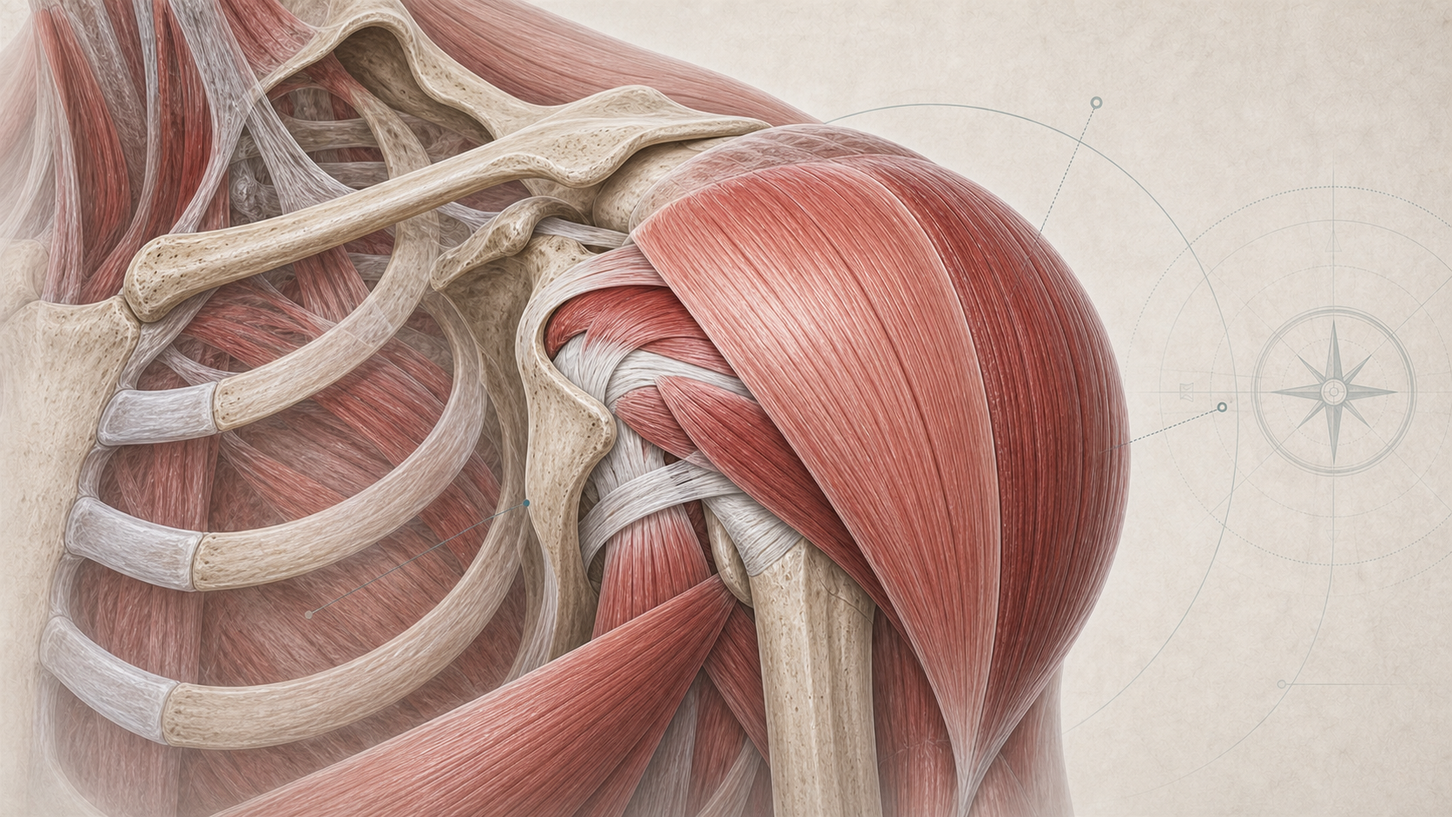
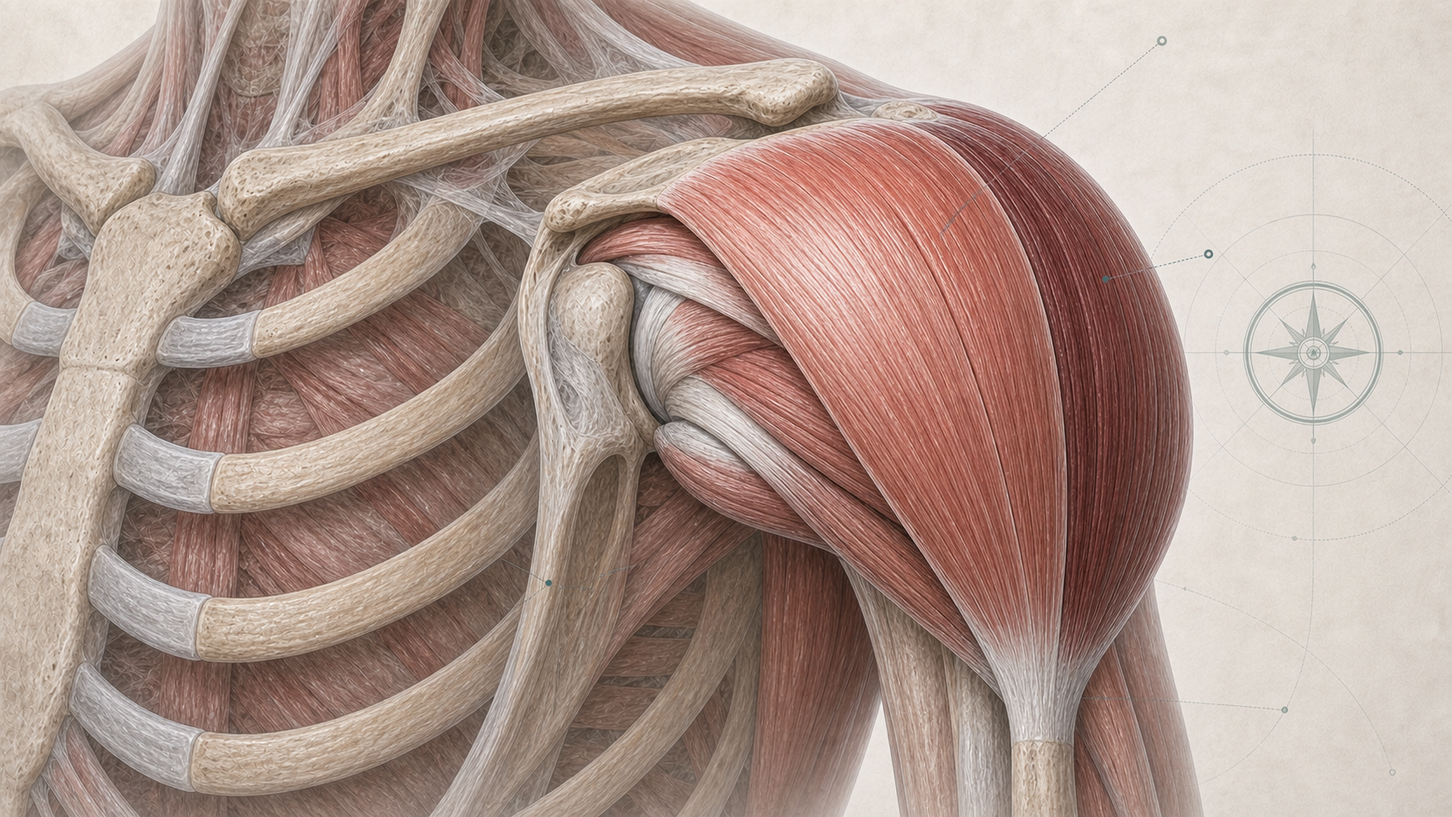
Biomechanik-Abbildungen anatomisch optimieren

diff --git a/assets/visuals/fitness-kompass-biomechanik-arme-griffkraft.prompt.md b/assets/visuals/fitness-kompass-biomechanik-arme-griffkraft.prompt.md
@@ -8,12 +8,12 @@ Generated size: 1672x941 px
 ## Prompt
 
 Use case: scientific-educational
-Asset type: inline anatomy visual for a German personal open-source Fitness Compass documentation chapter, target aspect ratio 16:9, intended final size 1600x900 px
-Primary request: Create an ultrarealistic but calm anatomical illustration showing the arm, forearm, and grip-related muscles on the human body, cropped from shoulder to hand with subtle elbow, radius/ulna, wrist, and hand bone context. Highlight biceps brachii, brachialis, triceps brachii, major forearm flexors and extensors, and the tendon relationships toward the wrist and fingers. Communicate elbow flexion, elbow extension, forearm rotation, and gripping through anatomy only, without text.
-Scene/backdrop: clean warm off-white anatomical atlas background with subtle paper texture and faint Fitness Compass motif, no environment, no gym scene.
-Subject: isolated close-up arm anatomy, one arm shown in a neutral slightly bent position with a gentle three-quarter rotation so anterior upper arm, posterior triceps plane, and forearm flexor/extensor masses are visible. Main muscles highlighted in refined muted red and rose tones, tendons near wrist/fingers visible but not clinical or gory, surrounding anatomy desaturated and secondary.
-Style/medium: premium medical-anatomy editorial illustration mixed with realistic 3D detail, ultrarealistic muscle texture, educational, precise, calm, high-end GitHub documentation visual, not flashy.
-Composition/framing: landscape 16:9, upper arm and elbow centered, forearm extending toward the right/lower side, hand partially visible in relaxed grip position, bones subtly semi-transparent, generous margins, no labels. Use subtle thin non-text callout lines or small anchor dots only if needed; no words.
+Asset type: replacement inline anatomy visual for docs/05-biomechanik-uebungsauswahl.md, section 5.9 arms/forearms/grip, target aspect ratio 16:9, intended final size 1600x900 px
+Primary request: Create an anatomically careful, ultrarealistic but calm arm and grip muscle illustration in the existing Fitness Compass visual style. The image is a clean two-view anatomical plate with no text: left side shows one coherent anterior upper-arm and forearm view with palm-up hand; right side shows one coherent posterior-lateral upper-arm and forearm view with dorsal hand. Do not blend the arms together. Do not make a random collage.
+Anatomy requirements: anterior view must clearly show biceps brachii as two heads converging toward radial tuberosity and bicipital aponeurosis, brachialis deep to the biceps from distal anterior humerus toward ulna, brachioradialis on lateral forearm, and forearm flexor-pronator mass from medial epicondyle with tendons continuing toward wrist and fingers. Posterior-lateral view must clearly show triceps long/lateral/medial heads converging to the olecranon via triceps tendon, and extensor-supinator forearm mass from lateral epicondyle with dorsal tendons toward wrist and fingers. Include semi-transparent humerus, radius, ulna, elbow joint, wrist bones, metacarpals, and finger bones. Keep hand relaxed, not clenched.
+Scene/backdrop: clean warm off-white anatomical atlas background with subtle paper texture and faint Fitness Compass compass-line motif, no gym scene.
+Subject/style: premium medical-anatomy editorial illustration mixed with realistic 3D detail, ultrarealistic muscle texture, educational, precise, calm, high-end GitHub documentation visual. Main muscles in muted red and rose tones, tendons ivory-white, bones slate-gray/ivory, secondary anatomy desaturated.
+Composition/framing: landscape 16:9, two balanced arm views with generous margins, shoulder-to-hand visible in both views, elbow and forearm tendon paths clear. Use subtle non-text anchor dots or fine callout lines only if needed. No labels.
 Lighting/mood: soft natural morning light, crisp but gentle shadows, clinical clarity without cold hospital mood.
-Color palette: warm white, deep teal/sage accents in the background only, slate-gray bones, muted red and rose muscle fibers, neutral steel/graphite fine lines, restrained small red accent allowed.
-Constraints: anatomically plausible upper arm, forearm, elbow, wrist, and hand relationships; emphasize biceps, brachialis, triceps, forearm flexors/extensors, and grip tendons; no readable text, no letters, no numbers, no labels, no pseudo-text, no watermark, no logo; no gore, blood, organs, exposed viscera, injury, surgery, needles, dramatic medical panic imagery, bodybuilder posing, aggressive bodybuilding aesthetic, product placement, or stock-photo look.
+Color palette: warm white, deep teal/sage accents in the background only, slate-gray bones, muted red and rose muscle fibers, ivory tendons, neutral graphite fine lines.
+Strict constraints: anatomically plausible upper arm, elbow, forearm, wrist, and hand relationships; no extra fingers, no fused fingers, no duplicate elbows, no detached tendons, no impossible transparent overlays, no readable text, no letters, no numbers, no labels, no pseudo-text, no watermark, no logo, no gore, no blood, no organs, no exposed viscera, no injury, no surgery, no needles, no dramatic medical panic imagery, no bodybuilder posing, no aggressive bodybuilding aesthetic, no product placement, no stock-photo look.

diff --git a/assets/visuals/fitness-kompass-biomechanik-ruecken-zugmuskeln.prompt.md b/assets/visuals/fitness-kompass-biomechanik-ruecken-zugmuskeln.prompt.md
@@ -8,12 +8,12 @@ Generated size: 1672x941 px
 ## Prompt
 
 Use case: scientific-educational
-Asset type: inline anatomy visual for a German personal open-source Fitness Compass documentation chapter, target aspect ratio 16:9, intended final size 1600x900 px
-Primary request: Create an ultrarealistic but calm anatomical illustration showing the major back and pulling muscles on the human body, cropped close on the posterior upper torso from neck to lower ribs and shoulder to shoulder. Highlight latissimus dorsi, trapezius, rhomboid/mid-back region, posterior deltoid, and scapular control structures with semi-transparent scapula, clavicle, thoracic spine, ribs, and proximal humerus context. Emphasize vertical pulling and rowing relationships through muscle fiber direction and shoulder-blade positioning only, without text.
-Scene/backdrop: clean warm off-white anatomical atlas background with subtle paper texture and faint Fitness Compass motif, no environment, no gym scene.
-Subject: isolated posterior torso anatomy, realistic back muscles, latissimus broad and sweeping down toward the humerus, trapezius visible from neck to shoulder blade, rhomboid/mid-back area layered near the scapulae, posterior deltoid around the rear shoulder. Main muscles highlighted in refined muted red and rose tones, surrounding tissue desaturated and secondary.
-Style/medium: premium medical-anatomy editorial illustration mixed with realistic 3D detail, ultrarealistic muscle texture, educational, precise, calm, high-end GitHub documentation visual, not flashy.
-Composition/framing: landscape 16:9, back centered, one scapula slightly more transparent to show rhomboid/trapezius relationship, lat fan shape clear on both sides, posterior shoulder and humerus insertion visible on one side, generous margins, no labels. Use subtle thin non-text callout lines or small anchor dots only if needed; no words.
+Asset type: replacement inline anatomy visual for docs/05-biomechanik-uebungsauswahl.md, section 5.6 back/pulling muscles, target aspect ratio 16:9, intended final size 1600x900 px
+Primary request: Create an anatomically careful, ultrarealistic but calm medical 3D atlas plate of the upper back and shoulder girdle in the existing Fitness Compass visual style. Show one coherent posterior upper-torso anatomy model from base of neck to lower ribs and from shoulder to shoulder. This is a non-sexual educational anatomy model, not a person posing. No skin emphasis.
+Anatomy requirements: show latissimus dorsi as a broad fan from thoracolumbar fascia, lower thoracic/lumbar region, iliac crest suggestion, and lower ribs toward a tendon near the intertubercular groove of the humerus. Show trapezius with upper, middle, and lower fiber directions from occipital/nuchal/C7-T12 region toward lateral clavicle, acromion, and scapular spine. Show rhomboid major/minor and middle-back region in a small transparent window between thoracic spine and medial scapular border. Show posterior deltoid wrapping from scapular spine toward humerus. Include semi-transparent scapulae, thoracic spine, ribs, clavicle ends, and proximal humerus.
+Scene/backdrop: clean warm off-white anatomical atlas background with subtle paper texture and faint Fitness Compass compass-line motif, no gym scene.
+Subject/style: premium medical-anatomy editorial illustration mixed with realistic 3D detail, ultrarealistic muscle texture, educational, precise, calm, high-end GitHub documentation visual. Muscles in muted red and rose tones, bones slate-gray/ivory, secondary anatomy desaturated.
+Composition/framing: landscape 16:9, back centered symmetrically, one scapular side slightly more transparent to reveal rhomboids, lat fan shape clear on both sides, posterior shoulder and humerus insertion visible, generous margins. Use subtle non-text anchor dots or fine callout lines only if needed. No labels.
 Lighting/mood: soft natural morning light, crisp but gentle shadows, clinical clarity without cold hospital mood.
-Color palette: warm white, deep teal/sage accents in the background only, slate-gray bones, muted red and rose muscle fibers, neutral steel/graphite fine lines, restrained small red accent allowed.
-Constraints: anatomically plausible back muscle groups, scapulae, spine, ribs, and humerus relationships; emphasize fiber direction and shoulder blade context; no readable text, no letters, no numbers, no labels, no pseudo-text, no watermark, no logo; no gore, blood, organs, exposed viscera, injury, surgery, needles, dramatic medical panic imagery, bodybuilder posing, aggressive bodybuilding aesthetic, product placement, or stock-photo look.
+Color palette: warm white, deep teal/sage accents in the background only, slate-gray bones, muted red and rose muscle fibers, neutral graphite fine lines.
+Strict constraints: anatomically plausible back muscle layers, scapulae, spine, ribs, and humerus relationships; no duplicate shoulder blades, no extra arms, no distorted spine, no impossible transparent overlays, no detached muscles, no readable text, no letters, no numbers, no labels, no pseudo-text, no watermark, no logo, no gore, no blood, no organs, no exposed viscera, no injury, no surgery, no needles, no dramatic medical panic imagery, no bodybuilder posing, no aggressive bodybuilding aesthetic, no product placement, no stock-photo look.

diff --git a/assets/visuals/fitness-kompass-biomechanik-nacken-hals.prompt.md b/assets/visuals/fitness-kompass-biomechanik-nacken-hals.prompt.md
@@ -8,12 +8,12 @@ Generated size: 1672x941 px
 ## Prompt
 
 Use case: scientific-educational
-Asset type: inline anatomy visual for a German personal open-source Fitness Compass documentation chapter, target aspect ratio 16:9, intended final size 1600x900 px
-Primary request: Create an ultrarealistic but calm anatomical illustration showing the neck and upper trapezius stabilization muscles on the human body, cropped from base of skull to upper chest and shoulders. Highlight sternocleidomastoid, upper trapezius, deep cervical extensors/flexors hinted subtly, scalenes, and their relationship to skull base, cervical spine, clavicle, sternum, scapula, and upper ribs. Communicate head and neck stabilization through anatomy only, without text.
-Scene/backdrop: clean warm off-white anatomical atlas background with subtle paper texture and faint Fitness Compass motif, no environment, no gym scene.
-Subject: isolated close-up neck and shoulder-girdle anatomy, slight three-quarter anterior-lateral view with a subtle posterior shoulder fade so sternocleidomastoid and upper trapezius are both readable. Main muscles highlighted in refined muted red and rose tones, deep stabilizers semi-transparent, surrounding anatomy desaturated and secondary.
-Style/medium: premium medical-anatomy editorial illustration mixed with realistic 3D detail, ultrarealistic muscle texture, educational, precise, calm, high-end GitHub documentation visual, not flashy.
-Composition/framing: landscape 16:9, cervical spine and base of skull centered, sternocleidomastoid sweeping to clavicle/sternum, upper trapezius from neck to shoulder visible, clavicle and scapular ridge visible, generous margins, no labels. Use subtle thin non-text callout lines or small anchor dots only if needed; no words.
+Asset type: replacement inline anatomy visual for docs/05-biomechanik-uebungsauswahl.md, section 5.10 neck/upper trapezius, target aspect ratio 16:9, intended final size 1600x900 px
+Primary request: Create an anatomically careful, ultrarealistic but calm neck and upper-trapezius muscle illustration in the existing Fitness Compass visual style. Show one coherent three-quarter anterior-lateral medical anatomy model cropped from base of skull to upper chest and shoulders. This is a non-sexual educational anatomy model, not a portrait; keep facial features minimal and not distracting.
+Anatomy requirements: clearly show sternocleidomastoid running from mastoid process behind the ear down to sternum and medial clavicle. Show scalenes running from cervical transverse processes to first and second ribs. Show upper trapezius running from occipital/nuchal ligament/cervical spine region to lateral clavicle, acromion, and scapular spine. Show deep cervical flexors/extensors only as subdued deeper stabilizing layers near the cervical spine. Include semi-transparent skull base, mandible only as minimal context, cervical vertebrae, clavicles, sternum/manubrium, upper ribs, scapular ridge/acromion, and proximal shoulder girdle. Keep larynx/face detail minimal.
+Scene/backdrop: clean warm off-white anatomical atlas background with subtle paper texture and faint Fitness Compass compass-line motif, no gym scene.
+Subject/style: premium medical-anatomy editorial illustration mixed with realistic 3D detail, ultrarealistic muscle texture, educational, precise, calm, high-end GitHub documentation visual. Main neck and trapezius muscles in muted red and rose tones, bones slate-gray/ivory, deep stabilizers semi-transparent and secondary.
+Composition/framing: landscape 16:9, cervical spine and base of skull centered, SCM visible on the front-lateral neck, upper trapezius visible sweeping to shoulder, clavicle/sternum and upper ribs clear, generous margins. Use subtle non-text anchor dots or fine callout lines only if needed. No labels.
 Lighting/mood: soft natural morning light, crisp but gentle shadows, clinical clarity without cold hospital mood.
-Color palette: warm white, deep teal/sage accents in the background only, slate-gray bones, muted red and rose muscle fibers, neutral steel/graphite fine lines, restrained small red accent allowed.
-Constraints: anatomically plausible neck muscles, cervical spine, skull base, clavicle, sternum, scapula, and upper-rib relationships; emphasize stability and attachment context; no readable text, no letters, no numbers, no labels, no pseudo-text, no watermark, no logo; no gore, blood, organs, exposed viscera, injury, surgery, needles, dramatic medical panic imagery, bodybuilder posing, aggressive bodybuilding aesthetic, product placement, or stock-photo look.
+Color palette: warm white, deep teal/sage accents in the background only, slate-gray bones, muted red and rose muscle fibers, neutral graphite fine lines.
+Strict constraints: anatomically plausible neck muscle attachments and shoulder-girdle relationships; no excessive face, no open mouth, no dramatic expression, no duplicate clavicles, no distorted cervical spine, no detached muscles, no impossible transparent overlays, no readable text, no letters, no numbers, no labels, no pseudo-text, no watermark, no logo, no gore, no blood, no organs, no exposed viscera, no injury, no surgery, no needles, no dramatic medical panic imagery, no bodybuilder posing, no aggressive bodybuilding aesthetic, no product placement, no stock-photo look.

diff --git a/assets/visuals/fitness-kompass-biomechanik-rumpf-muskeln.prompt.md b/assets/visuals/fitness-kompass-biomechanik-rumpf-muskeln.prompt.md
@@ -3,17 +3,17 @@
 Target path: `assets/visuals/fitness-kompass-biomechanik-rumpf-muskeln.png`
 Markdown file: `docs/05-biomechanik-uebungsauswahl.md`
 Recommended size: 1600x900 px, aspect ratio 16:9
-Generated size: 1672x940 px
+Generated size: 1672x941 px
 
 ## Prompt
 
 Use case: scientific-educational
-Asset type: inline anatomy visual for a German personal open-source Fitness Compass documentation chapter, target aspect ratio 16:9, intended final size 1600x900 px
-Primary request: Create an ultrarealistic but calm anatomical illustration showing the core and trunk musculature on the human body, cropped from lower ribs to pelvis with subtle spine and pelvis context. Highlight rectus abdominis, external and internal obliques, transversus abdominis as a deeper layered band, erector spinae hinted along the posterior side, and the relationship to ribs, pelvis, and lumbar spine. Communicate trunk flexion control, anti-extension, anti-rotation, and lateral stability through anatomical orientation only, without text.
-Scene/backdrop: clean warm off-white anatomical atlas background with subtle paper texture and faint Fitness Compass motif, no environment, no gym scene.
-Subject: isolated close-up torso anatomy, semi-transparent front-and-slight-oblique view so abdominal wall layers and spine/pelvis support are visible. Main trunk muscles highlighted in refined muted red and rose tones, deeper stabilizing layer slightly translucent, surrounding anatomy desaturated and secondary.
-Style/medium: premium medical-anatomy editorial illustration mixed with realistic 3D detail, ultrarealistic muscle texture, educational, precise, calm, high-end GitHub documentation visual, not flashy.
-Composition/framing: landscape 16:9, rib cage upper third, pelvis lower third, abdominal wall centered, slight three-quarter turn to reveal obliques and lateral trunk, subtle posterior erector-spinae hint on one side, generous margins, no labels. Use subtle thin non-text callout lines or small anchor dots only if needed; no words.
+Asset type: replacement inline anatomy visual for docs/05-biomechanik-uebungsauswahl.md, section 5.5 trunk/core, target aspect ratio 16:9, intended final size 1600x900 px
+Primary request: Create an anatomically careful, ultrarealistic but calm trunk/core muscle illustration in the existing Fitness Compass visual style. Show one coherent torso from lower ribs to pelvis in a slight anterior-oblique view, with one controlled cutaway window on the lateral abdominal wall to reveal deeper layers. Do not create a collage or multiple torsos.
+Anatomy requirements: show rectus abdominis vertically from pubic crest/symphysis toward xiphoid process and costal cartilages of ribs 5-7, with linea alba and tendinous intersections. Show external oblique fibers running inferomedially on the superficial lateral wall. In the cutaway window, show internal oblique fibers running superomedially underneath and transversus abdominis as a deeper horizontal fiber layer, like a belt. Show subtle posterior erector spinae columns beside the lumbar spine through a semi-transparent posterior edge. Include semi-transparent rib cage, lumbar vertebrae, sacrum, iliac crests, and pelvis. Keep organs absent.
+Scene/backdrop: clean warm off-white anatomical atlas background with subtle paper texture and faint Fitness Compass compass-line motif, no gym scene.
+Subject/style: premium medical-anatomy editorial illustration mixed with realistic 3D detail, ultrarealistic muscle texture, educational, precise, calm, high-end GitHub documentation visual. Muscles in muted red and rose tones, bones slate-gray/ivory, deeper layers slightly translucent, secondary anatomy desaturated.
+Composition/framing: landscape 16:9, torso centered, ribs upper third, pelvis lower third, oblique/cutaway side visible on viewer's right, generous margins. Use subtle non-text anchor dots or fine callout lines only if needed. No labels.
 Lighting/mood: soft natural morning light, crisp but gentle shadows, clinical clarity without cold hospital mood.
-Color palette: warm white, deep teal/sage accents in the background only, slate-gray bones, muted red and rose muscle fibers, neutral steel/graphite fine lines, restrained small red accent allowed.
-Constraints: anatomically plausible core muscle layers and bone attachments; emphasize functional trunk control through clear anatomy, not arrows or text; no readable text, no letters, no numbers, no labels, no pseudo-text, no watermark, no logo; no gore, blood, organs, exposed viscera, injury, surgery, needles, dramatic medical panic imagery, bodybuilder posing, aggressive bodybuilding aesthetic, product placement, or stock-photo look.
+Color palette: warm white, deep teal/sage accents in the background only, slate-gray bones, muted red and rose muscle fibers, neutral graphite fine lines.
+Strict constraints: anatomically plausible abdominal wall layers and attachments, no visible digestive organs, no exposed viscera, no duplicate torsos, no impossible transparent overlaps, no extra ribs or vertebrae, no readable text, no letters, no numbers, no labels, no pseudo-text, no watermark, no logo, no gore, no blood, no injury, no surgery, no needles, no dramatic medical panic imagery, no bodybuilder posing, no aggressive bodybuilding aesthetic, no product placement, no stock-photo look.

diff --git a/assets/visuals/fitness-kompass-biomechanik-schulter-deltoideus.prompt.md b/assets/visuals/fitness-kompass-biomechanik-schulter-deltoideus.prompt.md
@@ -8,12 +8,12 @@ Generated size: 1672x941 px
 ## Prompt
 
 Use case: scientific-educational
-Asset type: inline anatomy visual for a German personal open-source Fitness Compass documentation chapter, target aspect ratio 16:9, intended final size 1600x900 px
-Primary request: Create an ultrarealistic but calm anatomical illustration showing the shoulder muscles on the human body, cropped close on the upper torso, clavicle, scapula, shoulder joint, and proximal humerus. Highlight the deltoid with its anterior, lateral, and posterior portions as distinct but harmonious fiber directions, plus subtle rotator cuff context around the scapula and humeral head. Show semi-transparent bone context for clavicle, scapula/acromion, humerus, and upper ribs. Emphasize shoulder abduction, pressing contribution, and rear-shoulder pulling relationship through anatomy only, without text.
-Scene/backdrop: clean warm off-white anatomical atlas background with subtle paper texture and faint Fitness Compass motif, no environment, no gym scene.
-Subject: isolated close-up shoulder anatomy, slight three-quarter view so anterior, lateral, and posterior deltoid portions are all visible. Deltoid highlighted in refined muted red and rose tones with subtle tonal separation between heads, surrounding anatomy desaturated and secondary.
-Style/medium: premium medical-anatomy editorial illustration mixed with realistic 3D detail, ultrarealistic muscle texture, educational, precise, calm, high-end GitHub documentation visual, not flashy.
-Composition/framing: landscape 16:9, shoulder joint centered, clavicle and scapula visible, humerus descending along one side, deltoid cap prominent and cleanly isolated, rotator cuff hinted beneath/behind, generous margins, no labels. Use subtle thin non-text callout lines or small anchor dots only if needed; no words.
+Asset type: replacement inline anatomy visual for docs/05-biomechanik-uebungsauswahl.md, section 5.8 shoulder/deltoid, target aspect ratio 16:9, intended final size 1600x900 px
+Primary request: Create an anatomically careful, ultrarealistic but calm shoulder muscle illustration in the existing Fitness Compass visual style. Show one coherent three-quarter shoulder-girdle anatomy model, cropped on clavicle, scapula, shoulder joint, upper ribs, and proximal humerus. This is a non-sexual educational medical anatomy model, not a person posing.
+Anatomy requirements: highlight the deltoid with three clearly distinct fiber regions that still form one cap: anterior deltoid from lateral third of clavicle to deltoid tuberosity; middle/lateral deltoid from acromion to deltoid tuberosity; posterior deltoid from spine of scapula to deltoid tuberosity. Show the common insertion on the lateral humerus clearly. Show rotator cuff as subdued deeper stabilizing tendons/muscles hugging the humeral head: supraspinatus above, infraspinatus and teres minor posteriorly, subscapularis suggested anteriorly if view allows. Include semi-transparent clavicle, acromion, scapular spine, glenoid area, humeral head, proximal humerus, and upper ribs.
+Scene/backdrop: clean warm off-white anatomical atlas background with subtle paper texture and faint Fitness Compass compass-line motif, no gym scene.
+Subject/style: premium medical-anatomy editorial illustration mixed with realistic 3D detail, ultrarealistic muscle texture, educational, precise, calm, high-end GitHub documentation visual. Deltoid in muted red and rose tones with subtle tonal separation between the three heads, bones slate-gray/ivory, rotator cuff secondary and desaturated.
+Composition/framing: landscape 16:9, shoulder joint centered, deltoid cap prominent, clavicle/acromion/scapular spine origins readable, deltoid tuberosity on humerus visible, generous margins. Use subtle non-text anchor dots or fine callout lines only if needed. No labels.
 Lighting/mood: soft natural morning light, crisp but gentle shadows, clinical clarity without cold hospital mood.
-Color palette: warm white, deep teal/sage accents in the background only, slate-gray bones, muted red and rose muscle fibers, neutral steel/graphite fine lines, restrained small red accent allowed.
-Constraints: anatomically plausible deltoid heads, rotator cuff context, scapula, clavicle, and humerus; emphasize fiber direction and joint context; no readable text, no letters, no numbers, no labels, no pseudo-text, no watermark, no logo; no gore, blood, organs, exposed viscera, injury, surgery, needles, dramatic medical panic imagery, bodybuilder posing, aggressive bodybuilding aesthetic, product placement, or stock-photo look.
+Color palette: warm white, deep teal/sage accents in the background only, slate-gray bones, muted red and rose muscle fibers, neutral graphite fine lines.
+Strict constraints: anatomically plausible deltoid origins and insertion, clear three-part fiber direction, no duplicate shoulders, no missing humeral head, no detached rotator cuff, no impossible transparent overlays, no readable text, no letters, no numbers, no labels, no pseudo-text, no watermark, no logo, no gore, no blood, no organs, no exposed viscera, no injury, no surgery, no needles, no dramatic medical panic imagery, no bodybuilder posing, no aggressive bodybuilding aesthetic, no product placement, no stock-photo look.

diff --git a/assets/visuals/fitness-kompass-biomechanik-pectoralis-fasern.prompt.md b/assets/visuals/fitness-kompass-biomechanik-pectoralis-fasern.prompt.md
@@ -8,12 +8,12 @@ Generated size: 1672x941 px
 ## Prompt
 
 Use case: scientific-educational
-Asset type: inline anatomy visual for a German personal open-source Fitness Compass documentation chapter, target aspect ratio 16:9, intended final size 1600x900 px
-Primary request: Create an ultrarealistic but calm anatomical illustration showing the pectoralis major muscle on the human body, cropped close on the anterior upper torso, shoulder, clavicle, sternum, upper ribs, and upper arm. Highlight the pectoralis major as the main subject with clearly visible fiber directions: clavicular fibers from the clavicle toward the upper humerus, sternocostal fibers from sternum and ribs toward the humeral tendon, and lower/abdominal fibers sweeping upward. Show subtle semi-transparent bone context for clavicle, sternum, upper ribs, scapular/shoulder area, and proximal humerus, with the tendon insertion near the humerus visually clear.
-Scene/backdrop: clean warm off-white anatomical atlas background with a very subtle paper texture and faint Fitness Compass motif, no environment, no gym scene.
-Subject: isolated close-up torso anatomy, realistic skin edge/fade around the chest and shoulder, pectoralis major highlighted in refined warm red and muted rose tones, surrounding anatomy desaturated and secondary.
-Style/medium: premium medical-anatomy editorial illustration mixed with realistic 3D detail, ultrarealistic muscle texture, educational, precise, calm, high-end GitHub documentation visual, not flashy.
-Composition/framing: landscape 16:9, pectoralis major centered slightly left, shoulder and humerus insertion visible on the right, clavicle and sternum attachments visible on the left/top/center, generous margins, no labels. Use subtle thin non-text callout lines or small anchor dots only if needed; no words.
+Asset type: replacement inline anatomy visual for docs/05-biomechanik-uebungsauswahl.md, section 5.7 chest/pectoralis, target aspect ratio 16:9, intended final size 1600x900 px
+Primary request: Create an anatomically careful, ultrarealistic but calm pectoralis major illustration in the existing Fitness Compass visual style. Show one coherent anterior-oblique upper-torso anatomy model cropped close on clavicle, sternum, upper ribs, shoulder joint, and proximal humerus. This is a non-sexual educational anatomy model, not a person posing. No skin emphasis.
+Anatomy requirements: highlight pectoralis major with three visible fiber regions: clavicular head from medial half of clavicle toward upper humerus; sternocostal head from sternum and costal cartilages of roughly ribs 1-6/7 toward the humeral tendon; inferior abdominal fibers from external oblique aponeurosis/lower chest sweeping upward toward the same tendon. Show the fibers converging and twisting into a single tendon inserting on the lateral lip of the intertubercular sulcus / crest of greater tubercle of the humerus. Show semi-transparent clavicle, sternum, upper ribs, scapula shoulder socket, and proximal humerus. Keep pectoralis minor only as a faint deeper secondary shape if visible.
+Scene/backdrop: clean warm off-white anatomical atlas background with subtle paper texture and faint Fitness Compass compass-line motif, no gym scene.
+Subject/style: premium medical-anatomy editorial illustration mixed with realistic 3D detail, ultrarealistic muscle texture, educational, precise, calm, high-end GitHub documentation visual. Main pectoralis in muted red and rose tones, bones slate-gray/ivory, secondary anatomy desaturated.
+Composition/framing: landscape 16:9, pectoralis major centered slightly left, sternum/rib origins clear on the left/center, clavicle origin visible at top, humerus insertion visible on the right, generous margins. Use subtle non-text anchor dots or fine callout lines only if needed. No labels.
 Lighting/mood: soft natural morning light, crisp but gentle shadows, clinical clarity without cold hospital mood.
-Color palette: warm white, deep teal/sage accents in the background only, slate-gray bones, muted red and rose muscle fibers, neutral steel/graphite fine lines, restrained small red accent allowed.
-Constraints: anatomically plausible pectoralis major and bone attachments; emphasize fiber direction and tendon convergence; no readable text, no letters, no numbers, no labels, no pseudo-text, no watermark, no logo; no gore, blood, organs, exposed viscera, injury, surgery, needles, dramatic medical panic imagery, bodybuilder posing, aggressive bodybuilding aesthetic, product placement, or stock-photo look.
+Color palette: warm white, deep teal/sage accents in the background only, slate-gray bones, muted red and rose muscle fibers, neutral graphite fine lines.
+Strict constraints: anatomically plausible pectoralis major origins and humeral insertion, clear tendon convergence, no duplicate shoulder, no extra ribs, no detached tendon, no impossible transparent overlays, no readable text, no letters, no numbers, no labels, no pseudo-text, no watermark, no logo, no gore, no blood, no organs, no exposed viscera, no injury, no surgery, no needles, no dramatic medical panic imagery, no bodybuilder posing, no aggressive bodybuilding aesthetic, no product placement, no stock-photo look.

diff --git a/assets/visuals/fitness-kompass-biomechanik-unterkoerper-muskeln.prompt.md b/assets/visuals/fitness-kompass-biomechanik-unterkoerper-muskeln.prompt.md
@@ -8,12 +8,12 @@ Generated size: 1672x941 px
 ## Prompt
 
 Use case: scientific-educational
-Asset type: inline anatomy visual for a German personal open-source Fitness Compass documentation chapter, target aspect ratio 16:9, intended final size 1600x900 px
-Primary request: Create an ultrarealistic but calm anatomical illustration showing the main lower-body training muscles on the human body, cropped from pelvis to knees with enough context for hip and knee mechanics. Highlight quadriceps on the front of the thigh, gluteus maximus around the hip, hamstrings on the posterior thigh, adductors on the inner thigh, and subtle calf continuation if visible. Show semi-transparent bone context for pelvis, femur, patella, and upper tibia/fibula. Emphasize how hip extension, knee extension, and inner-thigh stabilization relate to the visible muscle groups.
-Scene/backdrop: clean warm off-white anatomical atlas background with subtle paper texture and faint Fitness Compass motif, no environment, no gym scene.
-Subject: isolated close-up lower torso and thighs, realistic anatomy, one leg slightly turned forward to show quadriceps, the other slightly angled to reveal glute/hamstring/adductor relationships, surrounding tissue desaturated and secondary.
-Style/medium: premium medical-anatomy editorial illustration mixed with realistic 3D detail, ultrarealistic muscle texture, educational, precise, calm, high-end GitHub documentation visual, not flashy.
-Composition/framing: landscape 16:9, pelvis and upper legs centered, quadriceps prominent on one side, glute and hamstrings visible on the other side, adductor plane visible near the inner thigh, generous margins, no labels. Use subtle thin non-text callout lines or small anchor dots only if needed; no words.
+Asset type: replacement inline anatomy visual for docs/05-biomechanik-uebungsauswahl.md, section 5.4 lower body, target aspect ratio 16:9, intended final size 1600x900 px
+Primary request: Create an anatomically careful, ultrarealistic but calm lower-body muscle illustration in the existing Fitness Compass visual style. The image is a clean two-view anatomical plate with no text: left side shows one coherent anterior pelvis-to-knee view of a single thigh; right side shows one coherent posterior-medial pelvis-to-knee view of a single thigh. Do not blend the bodies together. Do not make a random collage.
+Anatomy requirements: left/anterior view must clearly show rectus femoris, vastus lateralis, vastus medialis, and a subtle deeper vastus intermedius indication. Show the quadriceps tendon converging to the patella and the patellar ligament continuing to the tibial tuberosity. Right/posterior-medial view must clearly show gluteus maximus from posterior ilium/sacrum/coccyx toward iliotibial tract and gluteal tuberosity, hamstrings from ischial tuberosity toward posterior tibia/fibula, and adductors from pubis/ischium toward medial femur/linea aspera. Include semi-transparent pelvis, femur, patella, proximal tibia and fibula.
+Scene/backdrop: clean warm off-white anatomical atlas background with subtle paper texture and faint Fitness Compass compass-line motif, no gym scene.
+Subject/style: premium medical-anatomy editorial illustration mixed with realistic 3D detail, ultrarealistic muscle texture, educational, precise, calm, high-end GitHub documentation visual. Muscles in muted red and rose tones, bones slate-gray/ivory, secondary anatomy desaturated.
+Composition/framing: landscape 16:9, two balanced anatomical views with generous margins, each view pelvis to just below knee. Use subtle non-text anchor dots or fine callout lines only if needed. No labels.
 Lighting/mood: soft natural morning light, crisp but gentle shadows, clinical clarity without cold hospital mood.
-Color palette: warm white, deep teal/sage accents in the background only, slate-gray bones, muted red and rose muscle fibers, neutral steel/graphite fine lines, restrained small red accent allowed.
-Constraints: anatomically plausible lower-body muscle groups and bone attachments; emphasize fiber direction and joint context; no readable text, no letters, no numbers, no labels, no pseudo-text, no watermark, no logo; no gore, blood, organs, exposed viscera, injury, surgery, needles, dramatic medical panic imagery, bodybuilder posing, aggressive bodybuilding aesthetic, product placement, or stock-photo look.
+Color palette: warm white, deep teal/sage accents in the background only, slate-gray bones, muted red and rose muscle fibers, neutral graphite fine lines.
+Strict constraints: anatomically plausible origin and insertion relationships, clean continuous tendons, no duplicate limbs, no extra bones, no impossible transparent overlays, no mirrored anatomy mistakes, no distorted pelvis, no detached muscles, no readable text, no letters, no numbers, no labels, no pseudo-text, no watermark, no logo, no gore, no blood, no organs, no exposed viscera, no injury, no surgery, no needles, no dramatic medical panic imagery, no bodybuilder posing, no aggressive bodybuilding aesthetic, no product placement, no stock-photo look.
